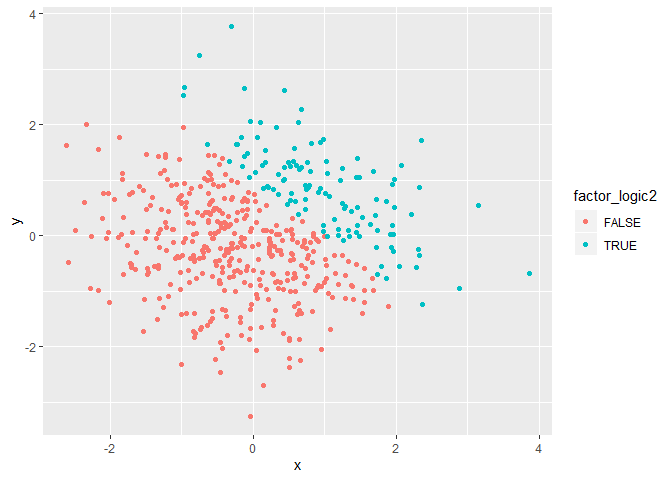
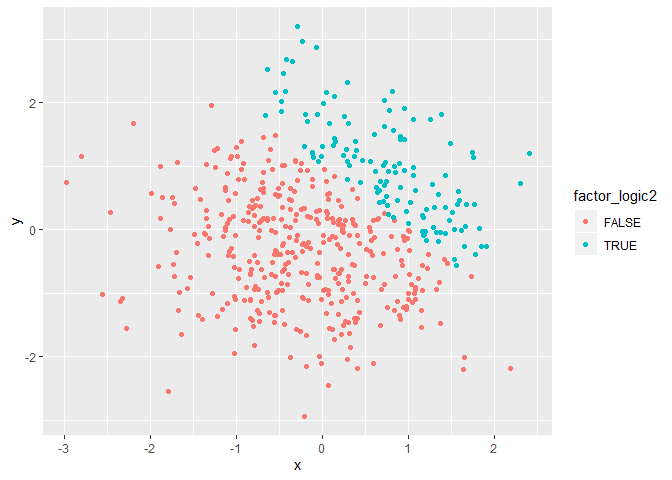
I have previousely named and saved my numeric generated vectors in section 1-2. But I changed it and decided to keep them unsaved, and redefine it in the next code chunk.

diff --git a/p8105_hw1_ha2546.md b/p8105_hw1_ha2546.md
@@ -23,14 +23,14 @@ sample_mean = mean(pull(prob1_df, vec_sample))
 sample_mean
 ```
 
-    ## [1] 0.5589216
+    ## [1] 0.1505652
 
 ``` r
 logic_mean = mean(pull(prob1_df, vec_logic))
 logic_mean
 ```
 
-    ## [1] 0.875
+    ## [1] 0.5
 
 ``` r
 char_mean = mean(pull(prob1_df, vec_char))
@@ -83,7 +83,7 @@ num_factor = as.numeric(pull(prob1_df, vec_factor))
 num_factor
 ```
 
-    ## [1] 1 1 1 0 1 1 1 1
+    ## [1] 1 1 0 1 0 0 0 1
     ## [1] NA NA NA NA NA NA NA NA
     ## [1] 2 1 3 3 1 1 1 1
 
@@ -112,8 +112,8 @@ num_logic_calc = pull(prob1_df, vec_sample) * num_logic
 num_logic_calc
 ```
 
-    ## [1] 1.06163441 0.20790222 0.58423352 0.00000000 0.37877846 1.03803974
-    ## [7] 1.31568485 0.02116581
+    ## [1] 0.2694022 1.9337457 0.0000000 1.4074178 0.0000000 0.0000000 0.0000000
+    ## [8] 0.7826507
 
 ``` r
 factor_logic = as.factor(pull(prob1_df, vec_logic))
@@ -127,7 +127,7 @@ factor_logic_calc1 = pull(prob1_df, vec_sample) * factor_logic
 factor_logic
 ```
 
-    ## [1] TRUE  TRUE  TRUE  FALSE TRUE  TRUE  TRUE  TRUE 
+    ## [1] TRUE  TRUE  FALSE TRUE  FALSE FALSE FALSE TRUE 
     ## Levels: FALSE TRUE
 
 ``` r
@@ -142,14 +142,14 @@ factor_logic_calc2 = pull(prob1_df, vec_sample) * num_factor_logic
 num_factor_logic
 ```
 
-    ## [1] 2 2 2 1 2 2 2 2
+    ## [1] 2 2 1 2 1 1 1 2
 
 ``` r
 factor_logic_calc2
 ```
 
-    ## [1]  2.12326881  0.41580445  1.16846704 -0.13606620  0.75755693  2.07607948
-    ## [7]  2.63136971  0.04233161
+    ## [1]  0.5388043  3.8674915 -0.7907436  2.8148356 -0.7559607 -1.0127797
+    ## [7] -0.6292106  1.5653014
 
   - **Results**
 
@@ -180,9 +180,9 @@ factor_logic2 = as.factor(pull(prob2_df, prob2_logic))
 ```
 
 The size of my dataset is 500, 3; which means it has 500 rows and
-3columns. The mean of x is -0.0250383, its median is -0.0920069, and its
-standard deviation is 1.0409275. The proportion of cases for which x + y
-\> 1 is 0.0773333
+3columns. The mean of x is -0.0363464, its median is -0.0381081, and its
+standard deviation is 0.9258333. The proportion of cases for which x + y
+\> 1 is 0.0826667
 
 ## 2.2
 
